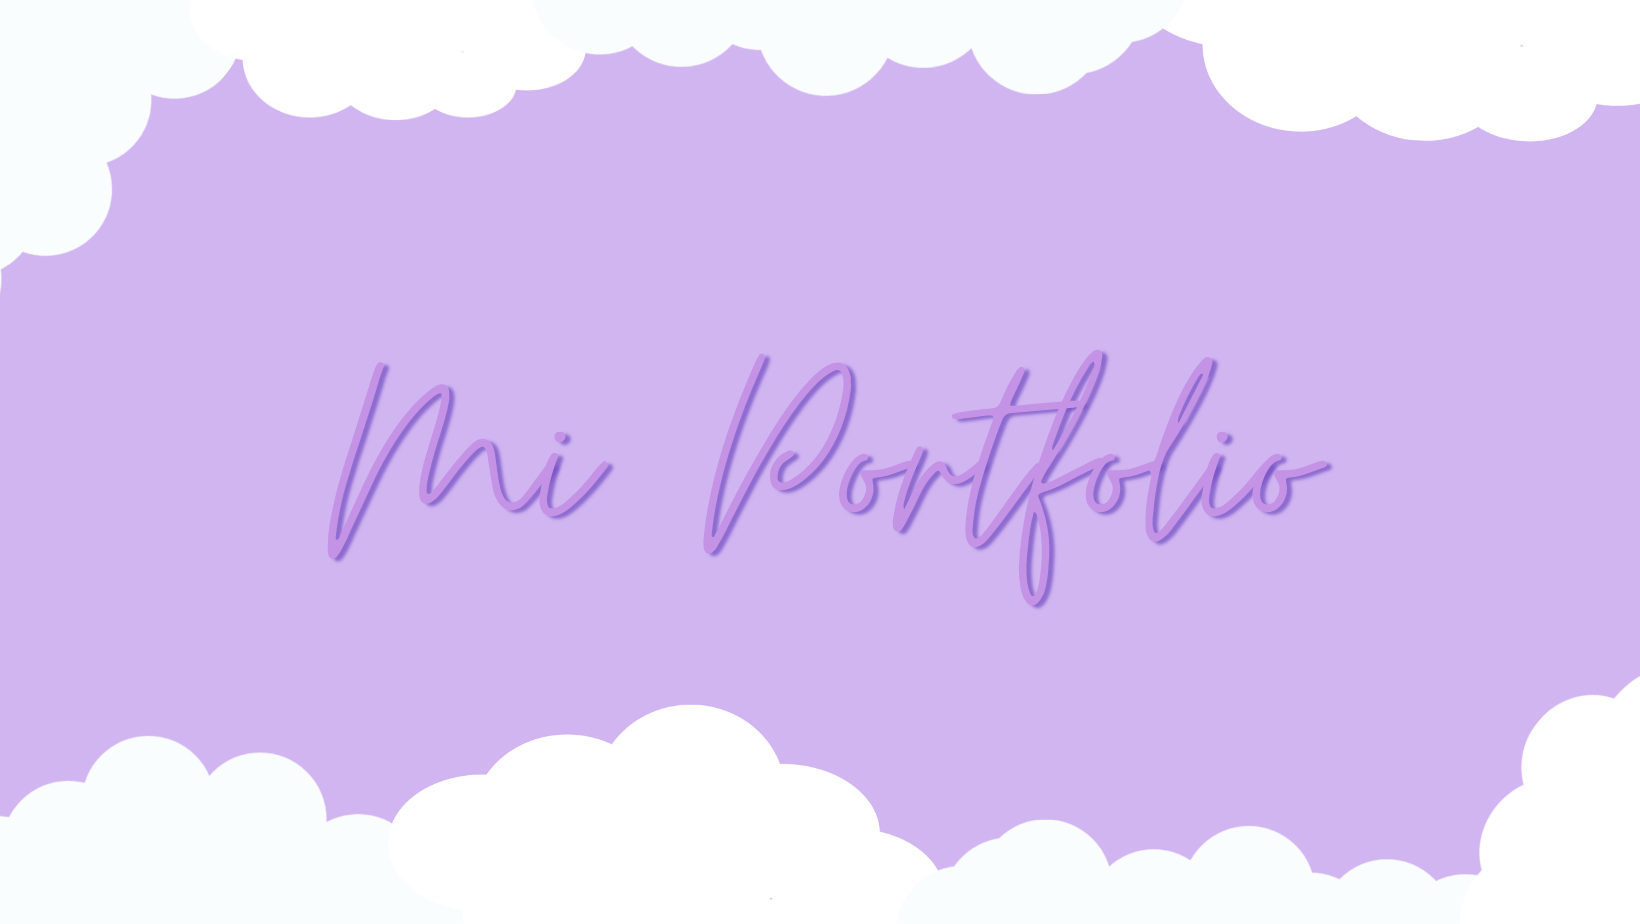
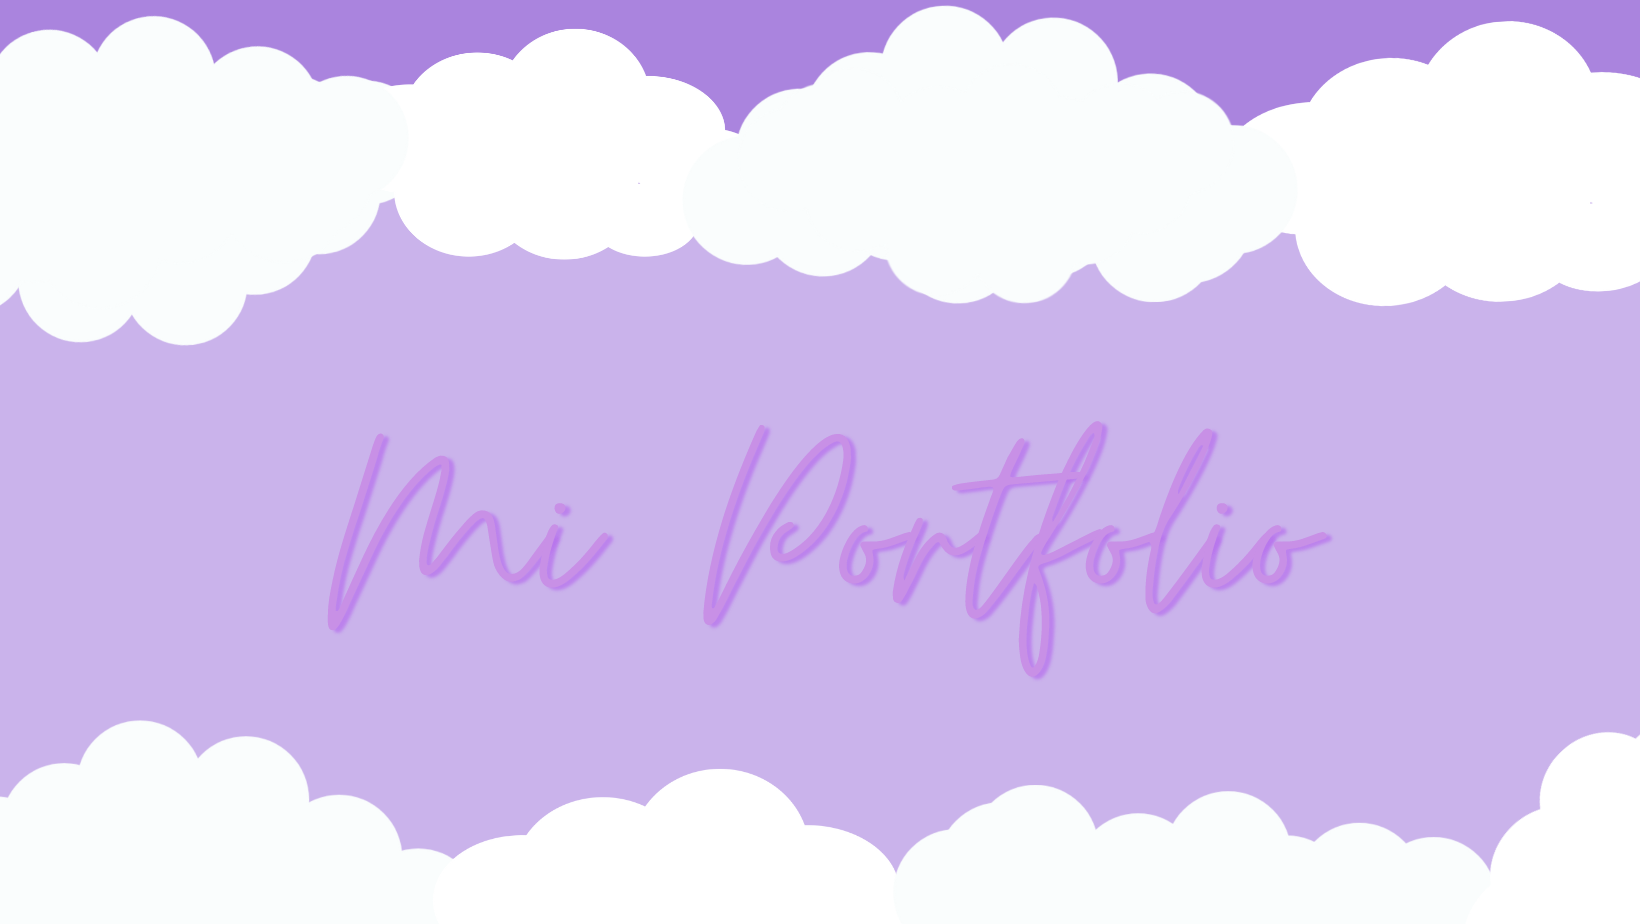
sumamos experiencia y educación

diff --git a/portfolio-ap/src/app/components/experiencia/experiencia.component.html b/portfolio-ap/src/app/components/experiencia/experiencia.component.html
@@ -1,0 +1,26 @@
+<img src="../../../assets/mediobanner.png">
+<div class="row">
+  <h1>Experiencia Laboral</h1>
+  <div class="col-lg-1"></div>
+  <div class="col-lg-11"></div>
+  <ul>
+    <li>
+      <h2>Trabajo 1</h2>
+      <p>Lorem ipsum, dolor sit amet consectetur adipisicing elit. Veniam, rerum. Adipisci animi quibusdam, accusamus
+        neque sequi rem, modi voluptatibus, repellat voluptate quo corrupti reprehenderit vitae ratione aperiam harum
+        esse cumque.</p>
+    </li>
+    <li>
+      <h2>Trabajo 2</h2>
+      <p>Lorem ipsum, dolor sit amet consectetur adipisicing elit. Veniam, rerum. Adipisci animi quibusdam, accusamus
+        neque sequi rem, modi voluptatibus, repellat voluptate quo corrupti reprehenderit vitae ratione aperiam harum
+        esse cumque.</p>
+    </li>
+    <li>
+      <h2>Trabajo 3</h2>
+      <p>Lorem ipsum, dolor sit amet consectetur adipisicing elit. Veniam, rerum. Adipisci animi quibusdam, accusamus
+        neque sequi rem, modi voluptatibus, repellat voluptate quo corrupti reprehenderit vitae ratione aperiam harum
+        esse cumque.</p>
+    </li>
+  </ul>
+</div>

diff --git a/portfolio-ap/src/app/components/educacion/educacion.component.html b/portfolio-ap/src/app/components/educacion/educacion.component.html
@@ -1,0 +1,25 @@
+<div class="row">
+  <h1>Educación</h1>
+  <div class="col-lg-1"></div>
+  <div class="col-lg-11"></div>
+  <ul>
+    <li>
+      <h2>Curso 1</h2>
+      <p>Lorem ipsum, dolor sit amet consectetur adipisicing elit. Veniam, rerum. Adipisci animi quibusdam, accusamus
+        neque sequi rem, modi voluptatibus, repellat voluptate quo corrupti reprehenderit vitae ratione aperiam harum
+        esse cumque.</p>
+    </li>
+    <li>
+      <h2>Curso 2</h2>
+      <p>Lorem ipsum, dolor sit amet consectetur adipisicing elit. Veniam, rerum. Adipisci animi quibusdam, accusamus
+        neque sequi rem, modi voluptatibus, repellat voluptate quo corrupti reprehenderit vitae ratione aperiam harum
+        esse cumque.</p>
+    </li>
+    <li>
+      <h2>Curso 3</h2>
+      <p>Lorem ipsum, dolor sit amet consectetur adipisicing elit. Veniam, rerum. Adipisci animi quibusdam, accusamus
+        neque sequi rem, modi voluptatibus, repellat voluptate quo corrupti reprehenderit vitae ratione aperiam harum
+        esse cumque.</p>
+    </li>
+  </ul>
+</div>

diff --git a/portfolio-ap/src/app/app.module.ts b/portfolio-ap/src/app/app.module.ts
@@ -8,6 +8,8 @@ import { LogoAPComponent } from './components/logo-ap/logo-ap.component';
 import { SocialComponent } from './components/social/social.component';
 import { BannerComponent } from './components/banner/banner.component';
 import { SobreMiComponent } from './components/sobre-mi/sobre-mi.component';
+import { ExperienciaComponent } from './components/experiencia/experiencia.component';
+import { EducacionComponent } from './components/educacion/educacion.component';
 
 @NgModule({
   declarations: [
@@ -16,7 +18,9 @@ import { SobreMiComponent } from './components/sobre-mi/sobre-mi.component';
     LogoAPComponent,
     SocialComponent,
     BannerComponent,
-    SobreMiComponent
+    SobreMiComponent,
+    ExperienciaComponent,
+    EducacionComponent
   ],
   imports: [
     BrowserModule,

diff --git a/portfolio-ap/src/app/components/experiencia/experiencia.component.spec.ts b/portfolio-ap/src/app/components/experiencia/experiencia.component.spec.ts
@@ -1,0 +1,23 @@
+import { ComponentFixture, TestBed } from '@angular/core/testing';
+
+import { ExperienciaComponent } from './experiencia.component';
+
+describe('ExperienciaComponent', () => {
+  let component: ExperienciaComponent;
+  let fixture: ComponentFixture<ExperienciaComponent>;
+
+  beforeEach(async () => {
+    await TestBed.configureTestingModule({
+      declarations: [ ExperienciaComponent ]
+    })
+    .compileComponents();
+
+    fixture = TestBed.createComponent(ExperienciaComponent);
+    component = fixture.componentInstance;
+    fixture.detectChanges();
+  });
+
+  it('should create', () => {
+    expect(component).toBeTruthy();
+  });
+});

diff --git a/portfolio-ap/src/app/components/educacion/educacion.component.spec.ts b/portfolio-ap/src/app/components/educacion/educacion.component.spec.ts
@@ -1,0 +1,23 @@
+import { ComponentFixture, TestBed } from '@angular/core/testing';
+
+import { EducacionComponent } from './educacion.component';
+
+describe('EducacionComponent', () => {
+  let component: EducacionComponent;
+  let fixture: ComponentFixture<EducacionComponent>;
+
+  beforeEach(async () => {
+    await TestBed.configureTestingModule({
+      declarations: [ EducacionComponent ]
+    })
+    .compileComponents();
+
+    fixture = TestBed.createComponent(EducacionComponent);
+    component = fixture.componentInstance;
+    fixture.detectChanges();
+  });
+
+  it('should create', () => {
+    expect(component).toBeTruthy();
+  });
+});

diff --git a/portfolio-ap/src/app/components/sobre-mi/sobre-mi.component.html b/portfolio-ap/src/app/components/sobre-mi/sobre-mi.component.html
@@ -3,12 +3,14 @@
     <img src="../../../assets/fotoperfil.png" class="img-fluid">
   </div>
   <div class="col-xs-12 col-sm-2 col-md-2 col-lg-2">
+    <br>
     <h1>Melisa Janet Garay</h1>
     <p>Full Stack Developer Jr</p>
   </div>
   <div class="col-xs-12 col-sm-8 col-md-8 col-lg-8">
     <span>
-      <h2>Sobre mi</h2>
+      <br>
+      <h1>Sobre mi</h1>
       <p>Lorem ipsum dolor, sit amet consectetur adipisicing elit. Ea explicabo quam dolor libero culpa vero aperiam
         odit, aspernatur reprehenderit dolorum harum minima minus quibusdam illum similique necessitatibus sint quidem
         commodi.</p>

diff --git a/portfolio-ap/src/app/components/experiencia/experiencia.component.ts b/portfolio-ap/src/app/components/experiencia/experiencia.component.ts
@@ -1,0 +1,15 @@
+import { Component, OnInit } from '@angular/core';
+
+@Component({
+  selector: 'app-experiencia',
+  templateUrl: './experiencia.component.html',
+  styleUrls: ['./experiencia.component.css']
+})
+export class ExperienciaComponent implements OnInit {
+
+  constructor() { }
+
+  ngOnInit(): void {
+  }
+
+}

diff --git a/portfolio-ap/src/app/components/educacion/educacion.component.ts b/portfolio-ap/src/app/components/educacion/educacion.component.ts
@@ -1,0 +1,15 @@
+import { Component, OnInit } from '@angular/core';
+
+@Component({
+  selector: 'app-educacion',
+  templateUrl: './educacion.component.html',
+  styleUrls: ['./educacion.component.css']
+})
+export class EducacionComponent implements OnInit {
+
+  constructor() { }
+
+  ngOnInit(): void {
+  }
+
+}

diff --git a/portfolio-ap/src/app/app.component.html b/portfolio-ap/src/app/app.component.html
@@ -1,3 +1,4 @@
 <app-header></app-header>
-<app-sobre-mi>
-</app-sobre-mi>
+<app-sobre-mi></app-sobre-mi>
+<app-experiencia></app-experiencia>
+<app-educacion></app-educacion>

diff --git a/portfolio-ap/src/app/components/sobre-mi/sobre-mi.component.css b/portfolio-ap/src/app/components/sobre-mi/sobre-mi.component.css
@@ -1,1 +1,6 @@
-/* Puede agregar estilos globales a este archivo y también importar otros archivos de estilo */
+.row {
+  padding: 30px;
+}
+div {
+  text-align: center;
+}

diff --git a/portfolio-ap/src/app/components/experiencia/experiencia.component.css b/portfolio-ap/src/app/components/experiencia/experiencia.component.css
@@ -1,0 +1,10 @@
+img {
+  width: 100%;
+  height: 150px;
+}
+.row {
+  padding: 60px;
+}
+div {
+  background-color: rgb(221, 206, 242);
+}

diff --git a/portfolio-ap/src/app/components/header/header.component.css b/portfolio-ap/src/app/components/header/header.component.css
@@ -1,5 +1,5 @@
 div {
-  background-color: rgba(185, 153, 227, 0.701);
+  background-color: rgb(170, 132, 222);
 }
 
 app-social {
